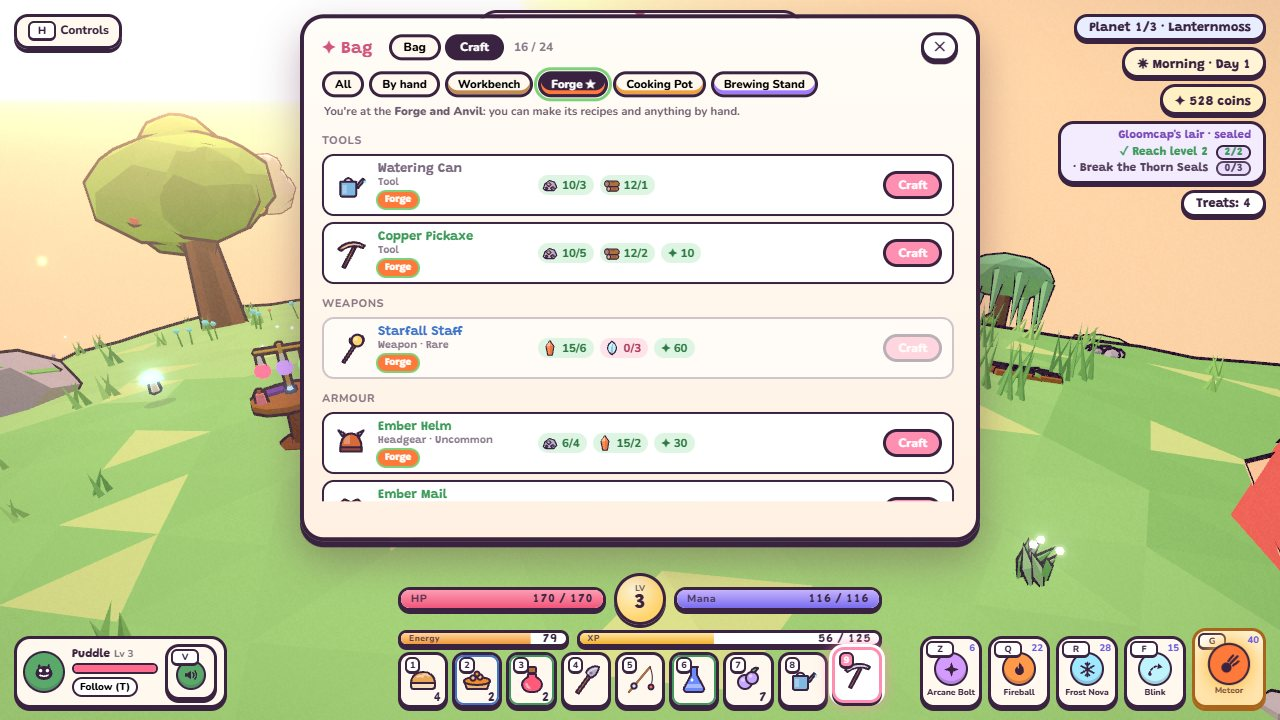
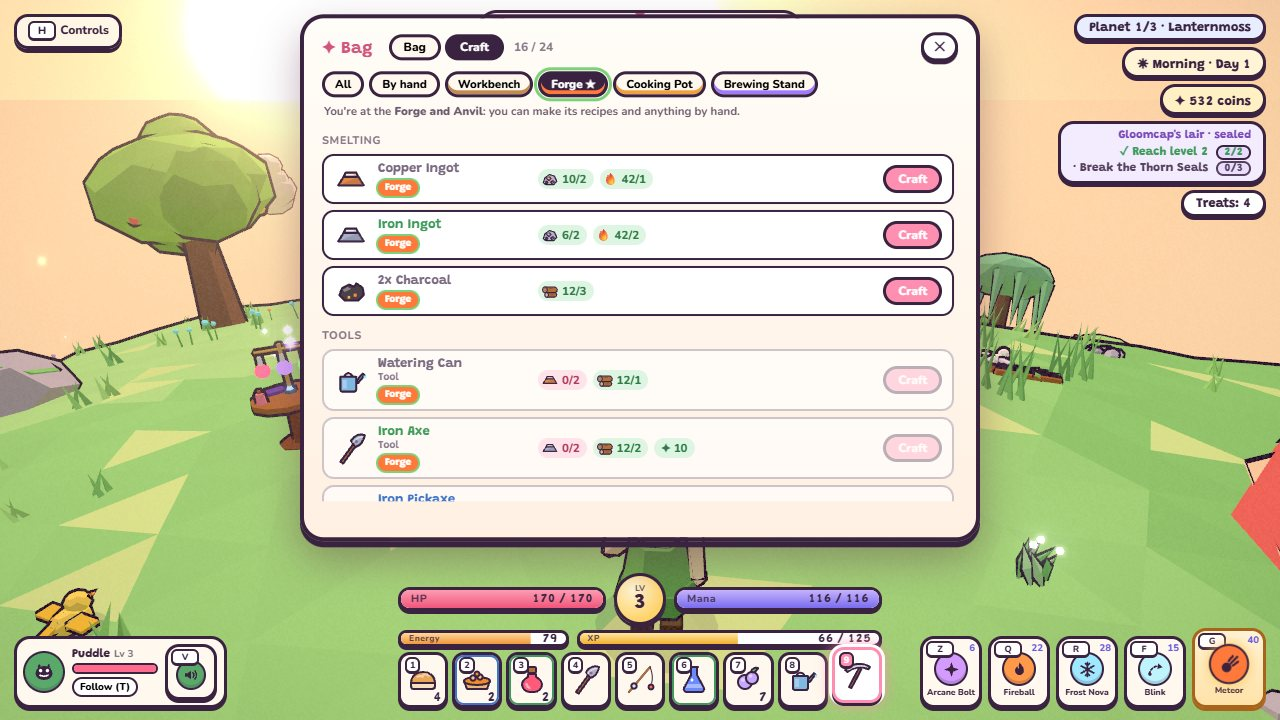
Smelting: ore and fuel become copper and iron ingots at the forge; ingots make the metal gear
- Smelting group at the forge: copper and iron ingots, and charcoal (wood burned down, a better fuel)
- Fuel is wood, ember shards or charcoal from the bag (FUEL); the Craft tab shows a fuel chip
- Metal tools, weapons, armour and trinket settings now take ingots instead of raw ore
- Iron Axe and Iron Pickaxe; a tool better than a node needs takes fewer swings
- Tests, README, TODO and the Craft tab screenshot

diff --git a/src/config/crafting.js b/src/config/crafting.js
@@ -7,17 +7,29 @@
      rarity   gear only: the rarity it comes out at (crafted gear is dependable rather than lucky)
      group    the heading it's listed under in the Craft tab (keep each group's recipes together)
      station  optional: made only standing at this station (config/stations.js); none = by hand, anywhere
+     fuel     optional: this much fuel burns to make it (FUEL: the bag's wood, charcoal, ember shards; the most plentiful
+              goes first). Smelting = ore + fuel at the forge -> ingots, used in metal tools, weapons and armour.
+
+   FUEL       how long each fuel burns (fuel points), in the order the forge uses them up
    Weapons only show up for the hero who can wield them.
    --------------------------------------------------------------------- */
 
+export const FUEL = { wood: 1, charcoal: 3, emberShard: 2 };
+
 export const RECIPES = [
+  // ---- smelting at the forge: ore + fuel -> ingots (and wood burned down into charcoal, a better fuel)
+  { id: 'copperIngot', group: 'Smelting', station: 'forge', result: 'copperIngot', needs: [['copperOre', 2]], fuel: 1 },
+  { id: 'ironIngot', group: 'Smelting', station: 'forge', result: 'ironIngot', needs: [['ironOre', 2]], fuel: 2 },
+  { id: 'charcoal', group: 'Smelting', station: 'forge', result: 'charcoal', qty: 2, needs: [['wood', 3]] },
   // ---- tools: wood and stone from fallen branches and loose stones; the first tools are made by hand, anywhere
   { id: 'woodAxe', group: 'Tools', result: 'woodAxe', needs: [['wood', 3], ['stone', 2]] },
   { id: 'stonePick', group: 'Tools', result: 'stonePick', needs: [['wood', 2], ['stone', 3]] },
   { id: 'fishingRod', group: 'Tools', result: 'fishingRod', needs: [['wood', 4], ['sweetleaf', 2]] },
   { id: 'hoe', group: 'Tools', result: 'hoe', needs: [['wood', 3], ['stone', 1]] },
-  { id: 'wateringCan', group: 'Tools', station: 'forge', result: 'wateringCan', needs: [['copperOre', 3], ['wood', 1]] },
-  { id: 'copperPick', group: 'Tools', station: 'forge', result: 'copperPick', needs: [['copperOre', 5], ['wood', 2]], coins: 10 },
+  { id: 'wateringCan', group: 'Tools', station: 'forge', result: 'wateringCan', needs: [['copperIngot', 2], ['wood', 1]] },
+  { id: 'ironAxe', group: 'Tools', station: 'forge', result: 'ironAxe', needs: [['ironIngot', 2], ['wood', 2]], coins: 10 },
+  { id: 'ironPick', group: 'Tools', station: 'forge', result: 'ironPick', needs: [['ironIngot', 3], ['wood', 2]], coins: 20 },
+  { id: 'copperPick', group: 'Tools', station: 'forge', result: 'copperPick', needs: [['copperIngot', 3], ['wood', 2]], coins: 10 },
   // ---- food: fill your energy, and the meals give a buff
   { id: 'grilledPerch', group: 'Food', station: 'pot', result: 'grilledFish', needs: [['pondPerch', 1], ['wood', 1]] },
   { id: 'grilledEel', group: 'Food', station: 'pot', result: 'grilledFish', needs: [['cinderEel', 1], ['wood', 1]] },
@@ -41,26 +53,26 @@ export const RECIPES = [
   { id: 'glowStaff', group: 'Weapons', station: 'workbench', result: 'glowStaff', needs: [['glowcap', 6], ['moonberry', 2]], coins: 20, rarity: 'uncommon' },
   { id: 'mossAxe', group: 'Weapons', station: 'workbench', result: 'mossAxe', needs: [['glowcap', 6], ['moonberry', 2]], coins: 20, rarity: 'uncommon' },
   { id: 'thornBow', group: 'Weapons', station: 'workbench', result: 'thornBow', needs: [['glowcap', 6], ['moonberry', 2]], coins: 20, rarity: 'uncommon' },
-  { id: 'starStaff', group: 'Weapons', station: 'forge', result: 'starStaff', needs: [['emberShard', 6], ['frostPetal', 3]], coins: 60, rarity: 'rare' },
-  { id: 'emberAxe', group: 'Weapons', station: 'forge', result: 'emberAxe', needs: [['emberShard', 8]], coins: 60, rarity: 'rare' },
-  { id: 'frostBow', group: 'Weapons', station: 'forge', result: 'frostBow', needs: [['frostPetal', 6], ['emberShard', 3]], coins: 60, rarity: 'rare' },
+  { id: 'starStaff', group: 'Weapons', station: 'forge', result: 'starStaff', needs: [['emberShard', 4], ['frostPetal', 3], ['copperIngot', 2]], coins: 60, rarity: 'rare' },
+  { id: 'emberAxe', group: 'Weapons', station: 'forge', result: 'emberAxe', needs: [['emberShard', 6], ['ironIngot', 2]], coins: 60, rarity: 'rare' },
+  { id: 'frostBow', group: 'Weapons', station: 'forge', result: 'frostBow', needs: [['frostPetal', 6], ['emberShard', 2], ['ironIngot', 1]], coins: 60, rarity: 'rare' },
   // ---- armour: head, body, feet
   { id: 'mossHood', group: 'Armour', station: 'workbench', result: 'mossHood', needs: [['sweetleaf', 4], ['glowcap', 2]], coins: 5, rarity: 'uncommon' },
   { id: 'mossCloak', group: 'Armour', station: 'workbench', result: 'mossCloak', needs: [['glowcap', 5], ['moonberry', 3]], coins: 10, rarity: 'uncommon' },
   { id: 'wanderBoots', group: 'Armour', station: 'workbench', result: 'wanderBoots', needs: [['sweetleaf', 3], ['wood', 2]], coins: 5, rarity: 'uncommon' },
-  { id: 'emberHelm', group: 'Armour', station: 'forge', result: 'emberHelm', needs: [['ironOre', 4], ['emberShard', 2]], coins: 30, rarity: 'uncommon' },
-  { id: 'emberMail', group: 'Armour', station: 'forge', result: 'emberMail', needs: [['emberShard', 8], ['glowcap', 2]], coins: 40, rarity: 'uncommon' },
-  { id: 'emberBoots', group: 'Armour', station: 'forge', result: 'emberBoots', needs: [['ironOre', 3], ['emberShard', 2]], coins: 30, rarity: 'uncommon' },
-  { id: 'frostCirclet', group: 'Armour', station: 'forge', result: 'frostCirclet', needs: [['frostPetal', 4], ['frostDiamond', 1]], coins: 50, rarity: 'rare' },
+  { id: 'emberHelm', group: 'Armour', station: 'forge', result: 'emberHelm', needs: [['ironIngot', 2], ['emberShard', 2]], coins: 30, rarity: 'uncommon' },
+  { id: 'emberMail', group: 'Armour', station: 'forge', result: 'emberMail', needs: [['ironIngot', 3], ['emberShard', 4]], coins: 40, rarity: 'uncommon' },
+  { id: 'emberBoots', group: 'Armour', station: 'forge', result: 'emberBoots', needs: [['ironIngot', 2], ['emberShard', 2]], coins: 30, rarity: 'uncommon' },
+  { id: 'frostCirclet', group: 'Armour', station: 'forge', result: 'frostCirclet', needs: [['frostPetal', 4], ['frostDiamond', 1], ['copperIngot', 1]], coins: 50, rarity: 'rare' },
   { id: 'frostMantle', group: 'Armour', station: 'forge', result: 'frostMantle', needs: [['frostPetal', 8], ['emberShard', 2]], coins: 60, rarity: 'rare' },
-  { id: 'snowstepBoots', group: 'Armour', station: 'forge', result: 'snowstepBoots', needs: [['frostPetal', 4], ['ironOre', 2]], coins: 50, rarity: 'rare' },
+  { id: 'snowstepBoots', group: 'Armour', station: 'forge', result: 'snowstepBoots', needs: [['frostPetal', 4], ['ironIngot', 1]], coins: 50, rarity: 'rare' },
   // ---- trinkets (two can be worn)
-  { id: 'lanternPendant', group: 'Trinkets', station: 'forge', result: 'lanternPendant', needs: [['glowcap', 4], ['emberShard', 2]], coins: 15, rarity: 'uncommon' },
-  { id: 'amethystBand', group: 'Trinkets', station: 'forge', result: 'amethystBand', needs: [['amethyst', 1], ['copperOre', 2]], coins: 20, rarity: 'rare' },
+  { id: 'lanternPendant', group: 'Trinkets', station: 'forge', result: 'lanternPendant', needs: [['glowcap', 4], ['copperIngot', 1]], coins: 15, rarity: 'uncommon' },
+  { id: 'amethystBand', group: 'Trinkets', station: 'forge', result: 'amethystBand', needs: [['amethyst', 1], ['copperIngot', 1]], coins: 20, rarity: 'rare' },
   { id: 'emberRing', group: 'Trinkets', station: 'forge', result: 'emberRing', needs: [['emberShard', 5]], coins: 30, rarity: 'uncommon' },
-  { id: 'opalBrooch', group: 'Trinkets', station: 'forge', result: 'opalBrooch', needs: [['fireOpal', 1], ['ironOre', 2]], coins: 30, rarity: 'rare' },
+  { id: 'opalBrooch', group: 'Trinkets', station: 'forge', result: 'opalBrooch', needs: [['fireOpal', 1], ['ironIngot', 1]], coins: 30, rarity: 'rare' },
   { id: 'frostLocket', group: 'Trinkets', station: 'forge', result: 'frostLocket', needs: [['frostPetal', 5]], coins: 40, rarity: 'rare' },
-  { id: 'diamondCharm', group: 'Trinkets', station: 'forge', result: 'diamondCharm', needs: [['frostDiamond', 1], ['ironOre', 2]], coins: 40, rarity: 'rare' },
+  { id: 'diamondCharm', group: 'Trinkets', station: 'forge', result: 'diamondCharm', needs: [['frostDiamond', 1], ['ironIngot', 1]], coins: 40, rarity: 'rare' },
   // ---- vanity: only the look
   { id: 'flowerCrown', group: 'Vanity', result: 'flowerCrown', needs: [['sweetleaf', 3], ['moonberry', 2]] },
   { id: 'leafCape', group: 'Vanity', result: 'leafCape', needs: [['sweetleaf', 6], ['wood', 2]] },

diff --git a/src/config/items.js b/src/config/items.js
@@ -97,7 +97,7 @@ export const ITEM_ICON_SHAPES = ['orb', 'bun', 'cap', 'gem', 'petal', 'charm', '
 export const ITEM_ART_KINDS = ['bun', 'tart', 'berry', 'bottle', 'bowl', 'flask', 'moonCharm', 'leafCharm', 'mushroom', 'shard', 'petal',
   'staff', 'axe', 'bow', 'cloak', 'mail', 'mantle', 'pendant', 'ring', 'locket', 'key', 'crown',
   'log', 'stone', 'ore', 'gemstone', 'herb', 'pepper', 'plum', 'carrot', 'wheat', 'pumpkin', 'seeds', 'fish', 'bread', 'skewer',
-  'pickaxe', 'rod', 'hoe', 'can', 'helm', 'boots', 'hood', 'strawHat', 'flowerCrown', 'frogHat', 'cape'];
+  'pickaxe', 'rod', 'hoe', 'can', 'helm', 'boots', 'hood', 'strawHat', 'flowerCrown', 'frogHat', 'cape', 'ingot', 'coal'];
 
 export const INVENTORY = {
   slots: 24, columns: 6,          // bag size and grid width
@@ -180,6 +180,13 @@ export const ITEM_DEFINITIONS = [
     icon: { shape: 'gem', color: 0xd8844a, art: 'ore' }, maxStack: 30, value: 4 },
   { id: 'ironOre', name: 'Iron Ore', description: 'Heavy, dark iron from deep veins (a copper pickaxe gets it out). Helmets and boots.', category: 'material',
     icon: { shape: 'gem', color: 0x8a8fa8, art: 'ore' }, maxStack: 30, rarity: 'uncommon', value: 7 },
+  // ---- smelted at the forge (config/crafting.js: ore + fuel -> ingots); fuel burns in the forge (FUEL)
+  { id: 'copperIngot', name: 'Copper Ingot', description: 'Copper ore, smelted bright at the forge. Watering cans, copper picks, rings and staves.', category: 'material',
+    icon: { shape: 'gem', color: 0xe08a4a, art: 'ingot' }, maxStack: 20, value: 10 },
+  { id: 'ironIngot', name: 'Iron Ingot', description: 'Iron ore, smelted at the forge. Strong enough for helms, mail, boots and axes.', category: 'material',
+    icon: { shape: 'gem', color: 0xa8b0c8, art: 'ingot' }, maxStack: 20, rarity: 'uncommon', value: 16 },
+  { id: 'charcoal', name: 'Charcoal', description: 'Wood burned down slow at the forge. Light, and burns three times as long as wood.', category: 'material',
+    icon: { shape: 'gem', color: 0x4a4048, art: 'coal' }, maxStack: 30, value: 2 },
   { id: 'amethyst', name: 'Amethyst', description: 'A violet gem from a vein near the Hydra\'s lake. Sets into a fine ring.', category: 'material',
     icon: { shape: 'gem', color: 0xb070ff, art: 'gemstone' }, maxStack: 10, rarity: 'rare', value: 20 },
   { id: 'fireOpal', name: 'Fire Opal', description: 'A gem with a flame inside, from the Basilisk\'s hunting grounds.', category: 'material',
@@ -206,6 +213,10 @@ export const ITEM_DEFINITIONS = [
     icon: { shape: 'gem', color: 0xb6aec8, art: 'pickaxe' }, value: 10, tool: { kind: 'pick', tier: 1 } },
   { id: 'copperPick', name: 'Copper Pickaxe', description: 'A harder pick: iron veins and gem veins too.', category: 'tool',
     icon: { shape: 'gem', color: 0xd8844a, art: 'pickaxe' }, rarity: 'uncommon', value: 30, tool: { kind: 'pick', tier: 2 } },
+  { id: 'ironAxe', name: 'Iron Axe', description: 'A heavy iron head on an ash handle. Fells a tree in fewer swings.', category: 'tool',
+    icon: { shape: 'gem', color: 0xa8b0c8, art: 'axe' }, rarity: 'uncommon', value: 40, tool: { kind: 'axe', tier: 2 } },
+  { id: 'ironPick', name: 'Iron Pickaxe', description: 'The best pick in three worlds: every vein, and fewer swings for each.', category: 'tool',
+    icon: { shape: 'gem', color: 0xa8b0c8, art: 'pickaxe' }, rarity: 'rare', value: 60, tool: { kind: 'pick', tier: 3 } },
   { id: 'fishingRod', name: 'Fishing Rod', description: 'Cast at a pond or lake, wait for the bite, then reel in at the right moment.', category: 'tool',
     icon: { shape: 'gem', color: 0xb0703a, art: 'rod' }, value: 12, tool: { kind: 'rod', tier: 1 } },
   { id: 'hoe', name: 'Garden Hoe', description: 'Tills a farm plot so seeds can go in.', category: 'tool',

diff --git a/src/items/crafting.js b/src/items/crafting.js
@@ -1,22 +1,40 @@
 /* Crafting rules (recipes: config/crafting.js). Pure apart from the inventory it's handed, so it's unit-tested with a
    real Inventory: tests/items.test.mjs. The UI (ui/InventoryUI.js) lists recipesFor(hero) and calls craft(). */
-import { RECIPES } from '../config/crafting.js';
+import { FUEL, RECIPES } from '../config/crafting.js';
+
+/** Fuel points the bag holds (FUEL: wood, charcoal, ember shards). */
+export function fuelIn(inventory, fuel = FUEL) { return Object.entries(fuel).reduce((t, [item, v]) => t + inventory.count(item) * v, 0); }
+
+/** What burning `need` fuel points takes from the bag: [[item, n]], in FUEL order (the most plentiful first); the last
+    piece may burn a little longer than needed. Null when there isn't enough. */
+export function fuelToBurn(inventory, need, fuel = FUEL) {
+  const out = []; let left = need;
+  for (const [item, v] of Object.entries(fuel)) {
+    if (left <= 0) break;
+    const n = Math.min(inventory.count(item), Math.ceil(left / v)); if (n > 0) { out.push([item, n]); left -= n * v; }
+  }
+  return left > 0 ? null : out;
+}
 
 /** The recipes `hero` can make use of (weapons for other heroes are left out). */
 export function recipesFor(hero, registry, recipes = RECIPES) {
   return recipes.filter(r => { const d = registry.get(r.result); return d && (!d.equip?.hero || d.equip.hero === hero); });
 }
 
-/** [{ item, need, have }] for every ingredient, plus coins: { need, have } (have >= need when affordable). */
+/** [{ item, need, have }] for every ingredient, plus coins and fuel: { need, have } (have >= need when there's enough).
+    Fuel the recipe also uses as an ingredient isn't counted twice. */
 export function requirements(recipe, inventory, coins = 0) {
-  return { items: recipe.needs.map(([item, need]) => ({ item, need, have: inventory.count(item) })), coins: { need: recipe.coins ?? 0, have: coins } };
+  const spare = { count: id => inventory.count(id) - (recipe.needs.find(([i]) => i === id)?.[1] ?? 0) };
+  return { items: recipe.needs.map(([item, need]) => ({ item, need, have: inventory.count(item) })), coins: { need: recipe.coins ?? 0, have: coins },
+    fuel: { need: recipe.fuel ?? 0, have: recipe.fuel ? fuelIn(spare) : 0 } };
 }
 
-/** Why it can't be made right now ('materials' | 'coins' | 'space' | 'station'), or null when it can.
+/** Why it can't be made right now ('materials' | 'fuel' | 'coins' | 'space' | 'station'), or null when it can.
     at = the station the hero stands at (config/stations.js id, or null for none); leave it out to skip that check. */
 export function craftProblem(recipe, inventory, coins = 0, at = undefined) {
   const req = requirements(recipe, inventory, coins);
   if (req.items.some(r => r.have < r.need)) return 'materials';
+  if (req.fuel.have < req.fuel.need) return 'fuel';
   if (req.coins.have < req.coins.need) return 'coins';
   const props = recipe.rarity ? { rarity: recipe.rarity } : null, qty = recipe.qty ?? 1;
   // the ingredients leave first, so a slot they empty counts as room
@@ -35,6 +53,7 @@ export function craft(recipe, inventory, coins, pay, at = undefined) {
   const problem = craftProblem(recipe, inventory, coins, at); if (problem) return { ok: false, problem };
   if (recipe.coins && !pay(recipe.coins)) return { ok: false, problem: 'coins' };
   for (const [item, n] of recipe.needs) inventory.remove(item, n);
+  for (const [item, n] of recipe.fuel ? fuelToBurn(inventory, recipe.fuel) ?? [] : []) inventory.remove(item, n);   // into the fire
   inventory.add(recipe.result, recipe.qty ?? 1, recipe.rarity ? { rarity: recipe.rarity } : null);
   return { ok: true, problem: null };
 }

diff --git a/src/ui/InventoryUI.js b/src/ui/InventoryUI.js
@@ -26,7 +26,7 @@ import { icon } from './icons.js';
 import { describeItem, itemIconHtml, rarityColor } from './itemTooltip.js';
 import { heroPortrait } from './monsterPortraits.js';
 
-const PROBLEM = { materials: 'Not enough materials.', coins: 'Not enough coins.', space: 'No room in the bag.', station: 'Stand at its station to make it.' };
+const PROBLEM = { materials: 'Not enough materials.', fuel: 'Not enough fuel: wood, charcoal or ember shards.', coins: 'Not enough coins.', space: 'No room in the bag.', station: 'Stand at its station to make it.' };
 /** The Craft tab's filters: everything, by hand, then each station. */
 const FILTERS = [['all', 'All'], ['hand', 'By hand'], ...Object.entries(STATIONS).map(([id, s]) => [id, s.short])];
 const hex = n => '#' + n.toString(16).padStart(6, '0');
@@ -214,6 +214,7 @@ export const InventoryUI = {
       const out = reg.get(r.result), req = requirements(r, inv, P.coins), problem = craftProblem(r, inv, P.coins, at);
       const col = rarityColor(out, r.rarity ? { rarity: r.rarity } : null);
       const needs = req.items.map(n => `<span class="need${n.have >= n.need ? ' ok' : ''}">${itemIconHtml(reg.get(n.item))}${Math.min(n.have, 99)}/${n.need}</span>`).join('') +
+        (req.fuel.need ? `<span class="need fuel${req.fuel.have >= req.fuel.need ? ' ok' : ''}" title="Fuel: wood burns for 1, ember shards 2, charcoal 3">🔥 ${Math.min(req.fuel.have, 99)}/${req.fuel.need}</span>` : '') +
         (req.coins.need ? `<span class="need coin${req.coins.have >= req.coins.need ? ' ok' : ''}">✦ ${req.coins.need}</span>` : '');
       const head = r.group && r.group !== group ? `<div class="rc-group">${(group = r.group)}</div>` : '';
       const kind = out.equip ? GEAR_KINDS[out.equip.slot].label : out.tool ? 'Tool' : '';

diff --git a/src/ui/itemArt.js b/src/ui/itemArt.js
@@ -101,6 +101,10 @@ const ART = {
     [[4, 19, c], [9, 14, '#fff'], [16, 13, '#ffd36b'], [23, 14, c], [28, 19, '#fff'], [10, 24, '#ffd36b'], [22, 24, c]].map(([x, y, col]) => `<circle ${S} stroke-width="1.6" fill="${col}" cx="${x}" cy="${y}" r="2.8"/>`).join(''),
   frogHat: (c, l) => `<path ${S} fill="${c}" d="M4 25c0-9 5-14 12-14s12 5 12 14z"/><circle ${S} fill="${c}" cx="10" cy="11" r="4.2"/><circle ${S} fill="${c}" cx="22" cy="11" r="4.2"/>
     <circle fill="#fff" cx="10" cy="11" r="2.4"/><circle fill="#fff" cx="22" cy="11" r="2.4"/><circle fill="${INK}" cx="10.4" cy="11.4" r="1.1"/><circle fill="${INK}" cx="22.4" cy="11.4" r="1.1"/><path fill="none" stroke="${l}" stroke-width="1.6" stroke-linecap="round" d="M9 21q7 3 14 0"/>`,
+  ingot: (c, l, d) => `<path ${S} fill="${c}" d="M4 22l5-8h14l5 8z"/><path ${S} fill="${l}" d="M9 14l2-4h10l2 4z"/><path fill="${d}" d="M23 14l5 8H4" opacity=".35"/>
+    <path fill="none" stroke="#fff" stroke-width="1.4" stroke-linecap="round" opacity=".8" d="M12 12h6"/>`,
+  coal: (c, l) => `<path ${S} fill="${c}" d="M5 20l3-7 6-3 5 2 2-3 6 4 1 7-5 5H10z"/><path fill="${l}" d="M8 15l5-3 3 2-6 3z" opacity=".7"/>
+    <circle fill="#ff8a3a" cx="20" cy="20" r="1.6"/><circle fill="#ffc04a" cx="14" cy="22" r="1.1"/>`,
   cape: (c, l, d) => `<path ${S} fill="${c}" d="M9 5h14l5 22-6-2-6 3-6-3-6 2z"/><path ${S} fill="${d}" d="M9 5q7 5 14 0l-1 3q-6 3-12 0z"/>
     <path fill="${l}" d="M13 14l1 1-1 1-1-1zM19 18l1 1-1 1-1-1zM15 22l1 1-1 1-1-1z"/>`,
 };

diff --git a/src/ui/itemTooltip.js b/src/ui/itemTooltip.js
@@ -3,6 +3,7 @@
 import { CHARACTERS } from '../config/characters.js';
 import { GEAR_KINDS, ITEM_CATEGORIES, ITEM_EFFECTS, RARITIES, TOOL_KINDS } from '../config/items.js';
 import { CROPS } from '../config/resources.js';
+import { FUEL } from '../config/crafting.js';
 import { BUFF_NAMES } from '../gameplay/buffs.js';
 import { formatStat, gearStats, itemRarity } from '../items/gear.js';
 import { ITEM_ACTIONS, actionFor } from '../items/itemActions.js';
@@ -48,6 +49,7 @@ export function describeItem(def, stack, o = {}) {
     (def.equip?.vanity ? '<div class="inv-d-note worn">Vanity: changes how you look, not your stats.</div>' : '') +
     (def.tool && !o.worn ? '<div class="inv-d-note worn">Keep it on the hotbar: press E (or right click) by what it works on.</div>' : '') +
     (crop && !o.worn ? '<div class="inv-d-note worn">Press E at a tilled plot in the village farm to plant.</div>' : '') +
+    (FUEL[def.id] && !o.worn ? `<div class="inv-d-note worn">Fuel for smelting at the forge: burns for ${FUEL[def.id]}.</div>` : '') +
     (o.worn ? '<div class="inv-d-note worn">Worn. Click it to take it off.</div>' : '') +
     (wrongHero ? `<div class="inv-d-note">Only the ${CHARACTERS[def.equip.hero].title} can use this.</div>` : '') +
     (o.worn ? '' : `<div class="inv-d-stats"><span>Quantity: ${qty}</span>${def.value ? `<span>Value: ${def.value}</span>` : ''}</div>`) +

diff --git a/src/models/items.js b/src/models/items.js
@@ -101,6 +101,8 @@ const ART = {
   strawHat: (g, c) => { addTo(g, part(G.cyl(0.24, 0.24, 0.03, 12), c), [0, -0.05, 0]); addTo(g, part(G.cyl(0.11, 0.13, 0.12, 10), c), [0, 0.02, 0]); addTo(g, part(G.cyl(0.135, 0.135, 0.035, 10), 0xe0605a), [0, -0.01, 0]); },
   flowerCrown: (g, c) => { addTo(g, part(torus(0.17, 0.025), 0x5fae5a), [0, 0, 0], [Math.PI / 2, 0, 0]); for (let i = 0; i < 6; i++) addTo(g, part(G.ico(0.045, 0), i % 2 ? c : 0xffffff), [Math.cos(i * 1.05) * 0.17, 0.03, Math.sin(i * 1.05) * 0.17]); },
   frogHat: (g, c) => { addTo(g, part(G.hemi(0.19, 9, 3), c), [0, -0.06, 0]); for (const sx of [-1, 1]) { addTo(g, part(G.ico(0.06, 1), c), [sx * 0.09, 0.11, 0.04]); addTo(g, part(G.ico(0.035, 0), 0xffffff), [sx * 0.09, 0.12, 0.08]); } },
+  ingot: (g, c) => { for (const [y, z] of [[-0.06, -0.08], [-0.06, 0.08], [0.07, 0]]) addTo(g, part(G.box(0.32, 0.12, 0.14), c), [0, y, z], [0, 0, 0], [1, 1, 1]); },
+  coal: (g, c) => { for (const [x, y, z] of [[-0.08, -0.04, 0], [0.09, -0.05, 0.05], [0.01, 0.07, -0.03]]) addTo(g, part(G.dodec(0.1), c), [x, y, z]); addTo(g, part(G.ico(0.035), 0xff8a3a, { glow: true, intensity: 2.2 }), [0.06, 0.02, 0.1]); },
   cape: (g, c) => { addTo(g, part(G.box(0.3, 0.4, 0.03), c), [0, -0.02, 0], [0.15, 0, 0]); addTo(g, part(G.cyl(0.02, 0.02, 0.3, 5), GOLD), [0, 0.18, 0.03], [0, 0, Math.PI / 2]); },
 };
 

diff --git a/src/gameplay/Gathering.js b/src/gameplay/Gathering.js
@@ -139,7 +139,8 @@ export const Gathering = {
     if (tool) { Hotbar.selected = tool.slot; Hotbar.changedAt = ctx.time; holdTool(P, tool.def); }
     const at = job.node?.up ?? job.spot?.dir ?? job.at;
     P.vel.set(0, 0, 0);                                                // plant your feet
-    this.job = { ...job, need, tool, at: at.clone(), from: P.up.clone(), t: 0, hits: 0, total: need.tool ? need.hits ?? 1 : 1,
+    const extra = tool ? tool.def.tool.tier - (need.tier ?? 1) : 0;   // a better tool than it needs: fewer swings
+    this.job = { ...job, need, tool, at: at.clone(), from: P.up.clone(), t: 0, hits: 0, total: need.tool ? Math.max(1, (need.hits ?? 1) - extra) : 1,
       swing: need.tool ? GATHER.swing : GATHER.pick };
   },
   stop() { if (this.job) { this.job = null; releaseTool(ctx.player); } },

diff --git a/src/gameplay/bagCommands.js b/src/gameplay/bagCommands.js
@@ -12,7 +12,7 @@ import { Hotbar } from './hotbar.js';
 import { Stations } from './Stations.js';
 import { spendCoins } from './wallet.js';
 
-const PROBLEM = { materials: 'You need more materials for that.', coins: 'Not enough coins for that.', space: 'No room in the bag for it.',
+const PROBLEM = { materials: 'You need more materials for that.', fuel: 'The forge needs more fuel for that: wood, charcoal or ember shards.', coins: 'Not enough coins for that.', space: 'No room in the bag for it.',
   station: r => `That's made at the ${STATIONS[r.station].name}: stand at one (the village's crafting corner) and try again.` };
 
 export function bagCommands(bag) {

diff --git a/README.md b/README.md
@@ -164,6 +164,11 @@ Walk up to one and press `E`: the Craft tab opens on what it makes. Those recipe
 Your first tools, a few snacks and the vanity pieces are made by hand, anywhere. Chips along the Craft tab filter by
 station, and a star marks the one you're at.
 
+**Smelting.** At the forge, ore and fuel become ingots: copper ore makes copper ingots, and iron ore makes iron ingots.
+Fuel is wood, charcoal or ember shards; charcoal is wood burned down at the forge, and lasts three times as long. Ingots
+make the metal tools, weapons, armour and trinket settings. That includes the Iron Axe and Iron Pickaxe: a tool better
+than a tree or vein needs takes fewer swings.
+
 <p>
   <img src="docs/screenshots/pet-field.jpg" width="49%" alt="Out with the dragon whelp">
 </p>
@@ -197,6 +202,8 @@ lower left. Every action can be remapped in Settings → Keys, and every key hin
 
 Major updates, newest first (the full list with notes is in [TODO.md](TODO.md)):
 
+- **Smelting:** ore and fuel (wood, charcoal, ember shards) become copper and iron ingots at the forge, and ingots make
+  the metal gear. New Iron Axe and Iron Pickaxe; better tools take fewer swings.
 - **Crafting stations:** a crafting corner in every village (workbench, forge and anvil, cooking pot, brewing stand).
   Meals, potions and metal or fine gear are made at their station; first tools and basics by hand. The Craft tab
   filters by station.
@@ -545,6 +552,7 @@ helpers such as `spawnEnemy('ramhorn')`, `gainXp(100)`, `boss`, `planet`, `goToP
 | Fishing: bite timing, the meter, catches per planet | `src/config/resources.js` → `FISHING` |
 | Crops, growing time, the farm plot | `src/config/resources.js` → `CROPS`, `FARM` |
 | Crafting stations, the corner's layout; which recipe needs which station | `src/config/stations.js`; `src/config/crafting.js` → `station` |
+| Smelting: ore and fuel per ingot, what burns and for how long | `src/config/crafting.js` → `fuel`, `FUEL` (the Smelting group) |
 | Buff strengths (Mighty, Stoneskin, Quickstep, Mending) | `src/config/game.js` → `BUFFS` |
 | Monster drop chance and table, gear rarity odds per source | `src/config/chests.js` → `MONSTER_DROPS`, `GEAR_RARITY` |
 | What wakes each boss, its arena wall | `src/config/planets.js` → `boss.summon`, `boss.arena` |

diff --git a/TODO.md b/TODO.md
@@ -517,7 +517,18 @@ Code: `src/config/crafting.js`, `src/items/crafting.js`, `src/ui/InventoryUI.js`
   - The coals glow and spark, the pot steams, the flasks bubble, and making something bursts in the station's colour.
     The compass shows the corner (and the farm) near the village.
   - Not done: a forge only in Cinder's smithy. Every village gets the same corner, so the forge isn't tied to Cinder.
-- [ ] **Smelting:** ore to ingots (with fuel), which are used in tools, weapons and armour.
+- [x] **Smelting:** ore to ingots (with fuel), which are used in tools, weapons and armour.
+  - Done (`config/crafting.js` `fuel`, `FUEL`; `items/crafting.js` `fuelIn`, `fuelToBurn`): the forge's Smelting group.
+    - 2 copper ore + 1 fuel makes a copper ingot; 2 iron ore + 2 fuel makes an iron ingot.
+    - Fuel is whatever burns in the bag: wood (1), ember shards (2), charcoal (3). Plain wood goes first. Charcoal is
+      3 wood burned down into 2 charcoal at the forge.
+    - The Craft tab shows a 🔥 have / need chip; without enough fuel it won't smelt and says so. Item details name a
+      fuel's burn.
+  - Ingots replace raw ore in the metal recipes:
+    - Copper: watering can, copper pickaxe, the Starfall Staff, Frost Circlet, Lantern Pendant, Amethyst Band.
+    - Iron: Ember Greataxe, Frostwind Bow, the Ember helm, mail and greaves, Snowstep Boots, opal and diamond settings.
+  - New tools from ingots: an Iron Axe (axe tier 2) and an Iron Pickaxe (pick tier 3). A tool better than a node needs
+    takes fewer swings (an iron pick breaks a copper vein in one).
 - [ ] **Brewing:** herbs and water become potions and tonics, with stronger versions from rarer ingredients.
 - [ ] **Magic:**
   - Enchanting gear with runes or essences (extra stats, elemental effects).
